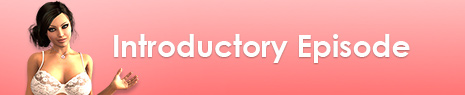
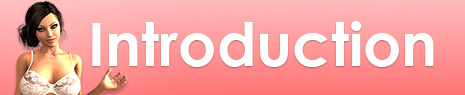
Amende to update img file references - added new img files

Changed region(s): [[0.0301, 0.0, 0.9333, 1.0]]

diff --git a/static/academy_intro/game/checksave1.0.html b/static/academy_intro/game/checksave1.0.html
@@ -54,7 +54,7 @@
   <tr>
    <td>
 	  <div align="left" class="style3">You have completed this part of the story... The next part you can play is:</div><br />
-	  <div align="left"><a href="/academy_intro/game/start_intro.html" title="Play this episode again"><img src="buttonsetc/endcards/index_intro.jpg"></a> <img src="buttonsetc/endcards/arrow.jpg"> <a href="/chapter1/game/start1.0.html" title="Play next episode"><img src="buttonsetc/endcards/index_chapter1.jpg"></a></div>
+	  <div align="left"><a href="/academy_intro/game/start_intro.html" title="Play this episode again"><img src="buttonsetc/endcards/index_intro.jpg"></a> <img src="buttonsetc/endcards/arrow.jpg"> <a href="/chapter1/game/start1.html" title="Play next episode"><img src="buttonsetc/endcards/index_ch1.jpg"></a></div>
 	  <br />
       <div align="left" class="style5">You can continue using the combination of achievements below, or you can play again to find other story paths...</div></td>
     </tr>

diff --git a/pages/introductionsaved.vue b/pages/introductionsaved.vue
@@ -5,7 +5,7 @@
      <v-row>
       <v-col cols="12">
 
-    <h1>Episode 1 Part 1</h1>
+    <h1>Chapter 1</h1>
         <div class="container">
             <iframe
             src="../academy_intro/game/checksave1.0.html"
